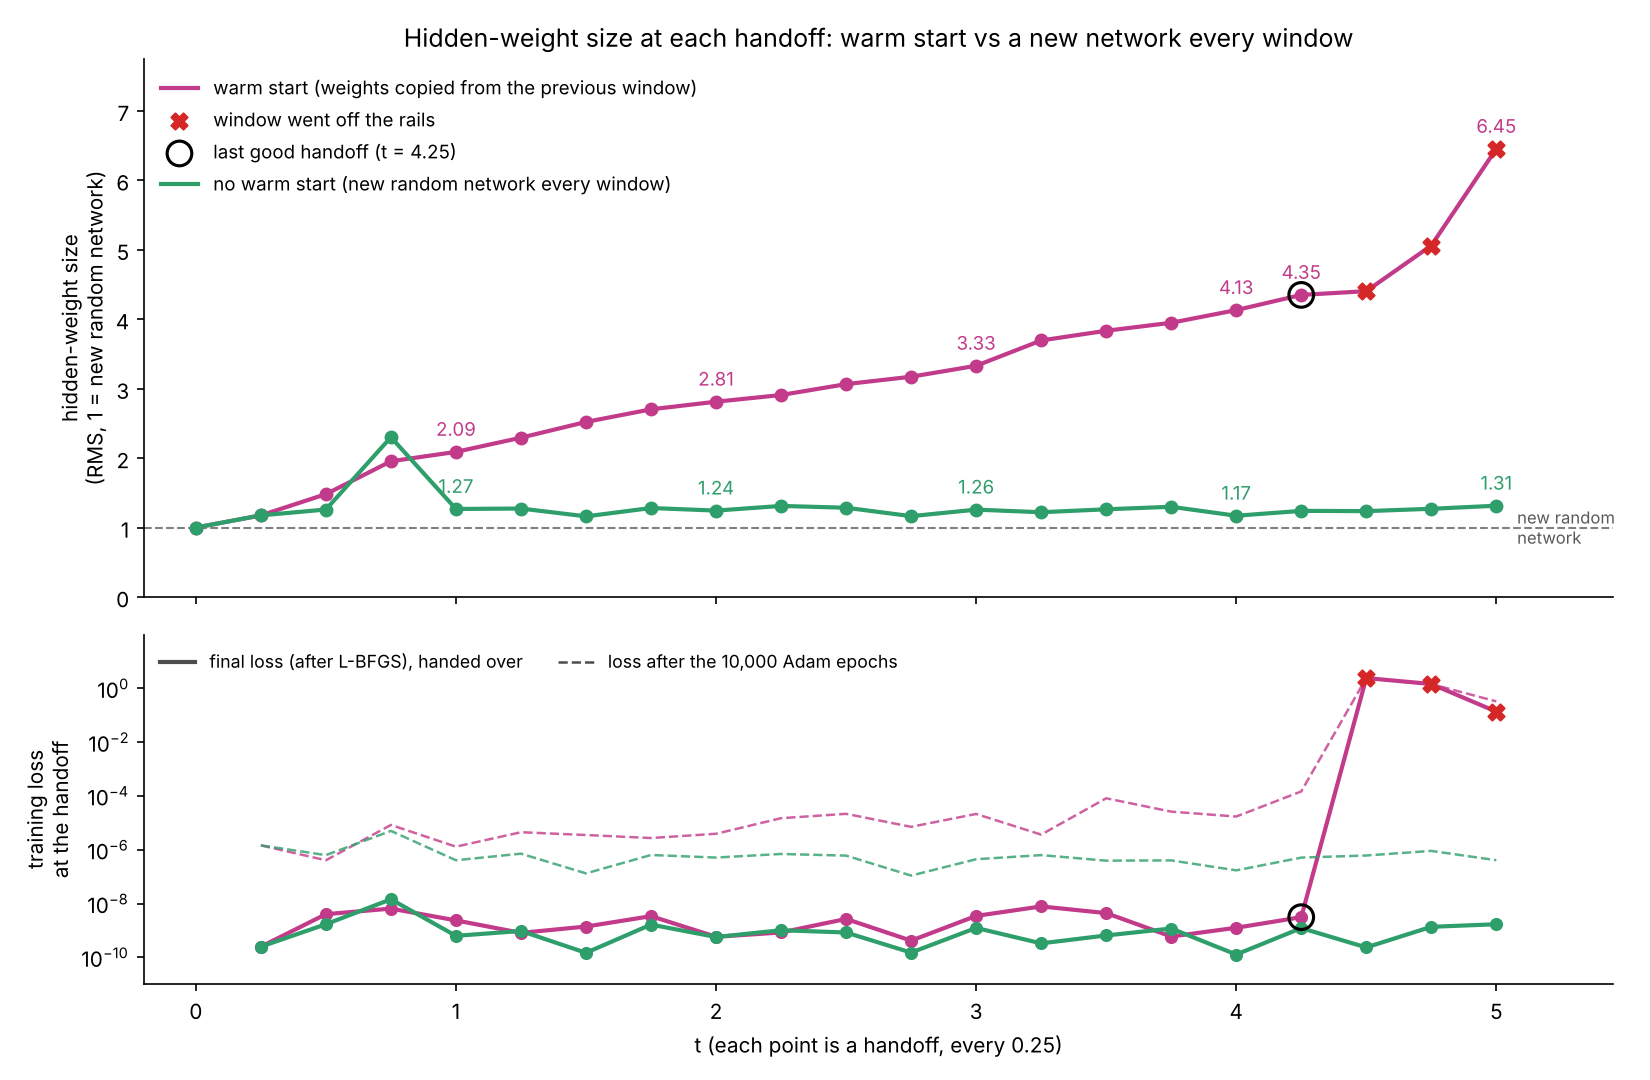
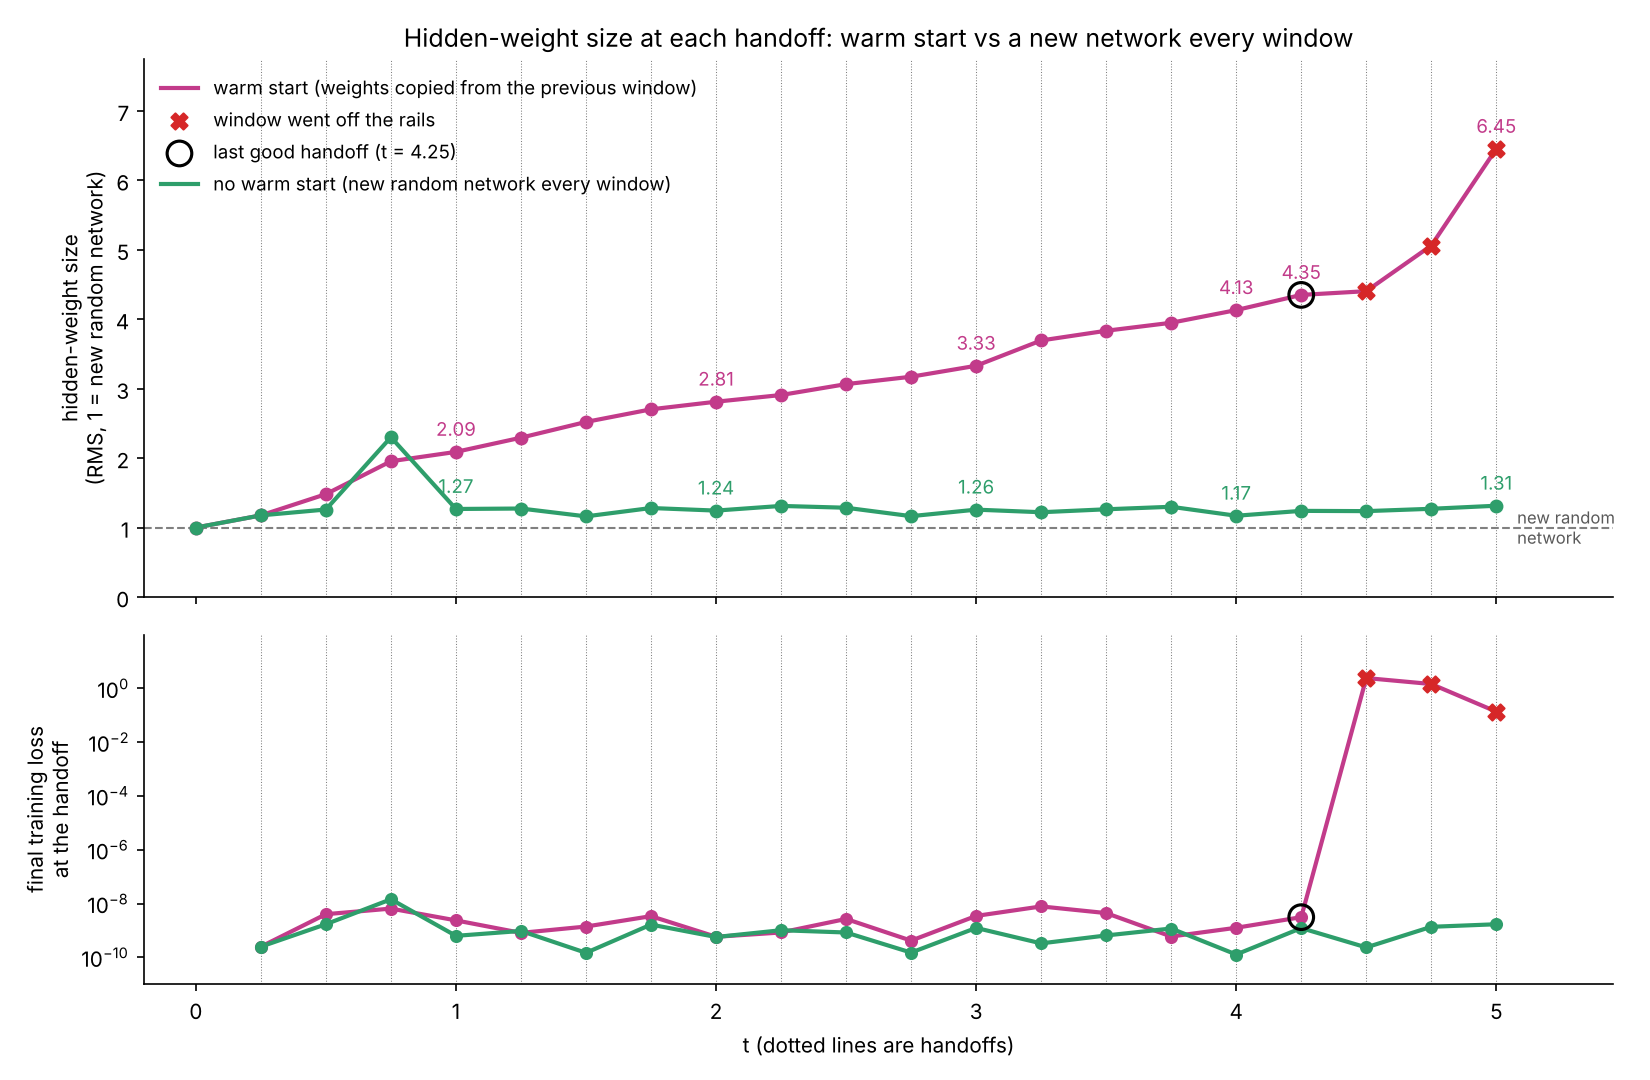
Drop the after-Adam loss lines and restore the handoff lines in the weight graphs
Claude-Session: https://claude.ai/code/session_01B1bBBmUZZ15VhvxewLLqji

diff --git a/scripts/handoff_weight_rms.py b/scripts/handoff_weight_rms.py
@@ -19,8 +19,8 @@ away from the reference (3D distance). Such windows are drawn in red, and the
 last point before the first one is the "last good handoff".
 
 Under each graph is the training loss of the window that ends at that handoff:
-its final loss (after L-BFGS, the network that is handed over) and, dashed, its
-loss after the Adam epochs. Both come from the runs' losses_XX.csv files.
+its final loss (after L-BFGS, the network that is handed over), from the runs'
+losses_XX.csv files.
 
 Example (the runs used for the graphs):
     python time_marching.py --T 5 --window 0.25 --save-dir runs/warm --save-predictions runs/pred_warm.csv
@@ -78,6 +78,8 @@ def draw(runs, base, title, path, ymax, fail_err):
                                   gridspec_kw=dict(height_ratios=[2, 1.3]))
     t_all = np.r_[0.0, runs[0][0]["handoff_t"].values]
     for a in (ax, axl):
+        for tv in t_all[1:]:
+            a.axvline(tv, color="0.5", lw=0.5, ls=":", zorder=0)
         a.spines[["top", "right"]].set_visible(False)
     ax.axhline(1.0, color="0.5", lw=1, ls="--")
     ax.text(t_all[-1] + 0.08, 1.0, "new random\nnetwork", va="center", fontsize=8, color="0.35")
@@ -91,11 +93,10 @@ def draw(runs, base, title, path, ymax, fail_err):
         show = [ti == int(ti) for ti in t]
         if len(runs) > 1:
             show[0] = False
-        th, lh, ah = df["handoff_t"].values, df["loss_handoff"].values, df["loss_after_adam"].values
+        th, lh = df["handoff_t"].values, df["loss_handoff"].values
         bad_h = bad[1:]
         axl.plot(th, lh, color=color, lw=2, zorder=2)
         axl.scatter(th[~bad_h], lh[~bad_h], color=color, s=28, zorder=3)
-        axl.plot(th, ah, color=color, lw=1.2, ls="--", alpha=0.8, zorder=2)
         if bad.any():
             first = int(np.argmax(bad))
             ax.scatter(t[bad], y[bad], color="#d62728", s=60, marker="X", zorder=4,
@@ -118,13 +119,10 @@ def draw(runs, base, title, path, ymax, fail_err):
     axl.set_yscale("log")
     axl.set_ylim(1e-11, 1e2)
     axl.set_yticks([1e-10, 1e-8, 1e-6, 1e-4, 1e-2, 1e0])
-    axl.set_ylabel("training loss\nat the handoff")
-    axl.plot([], [], color="0.3", lw=2, label="final loss (after L-BFGS), handed over")
-    axl.plot([], [], color="0.3", lw=1.2, ls="--", label="loss after the 10,000 Adam epochs")
-    axl.legend(loc="upper left", frameon=False, fontsize=8.5, ncol=2)
+    axl.set_ylabel("final training loss\nat the handoff")
     axl.set_xticks(np.arange(0, t_all[-1] + 0.01, 1.0))
     axl.set_xlim(-0.2, t_all[-1] + 0.45)
-    axl.set_xlabel("t (each point is a handoff, every 0.25)")
+    axl.set_xlabel("t (dotted lines are handoffs)")
     fig.tight_layout()
     fig.savefig(path)
     plt.close(fig)

diff --git a/results/handoff_weights/simple/README.md b/results/handoff_weights/simple/README.md
@@ -4,9 +4,9 @@ Same runs as `../handoff_errors.png`: T = 5, 20 windows of 0.25 time units (hand
 
 **The number.** At each handoff, take every weight and bias in the 4 hidden layers of 64 units (12,736 numbers; the output layer is left out) from the window's final network, and compute their RMS. Divide by the RMS of the random network the run started from (0.123). So 1.0 means "the same size as a newly made network" and 4.0 means "four times bigger". Both graphs use the same y-axis so they can be compared directly.
 
-**The loss panel.** Under each weight graph is the training loss of the window that ends at that handoff, on the same t axis (log scale). The solid line is the final loss after L-BFGS, which belongs to the network that gets handed over. The dashed line is the loss after the 10,000 Adam epochs, before L-BFGS. Both come from `../runs/*/losses_XX.csv`.
+**The loss panel.** Under each weight graph is the training loss of the window that ends at that handoff, on the same t axis (log scale). It is the final loss after L-BFGS, which belongs to the network that gets handed over, from `../runs/*/losses_XX.csv`.
 
-**What the loss shows.** The final loss gives no warning: both runs sit between 1e-10 and 1e-8 at every good handoff, warm included, right up to t = 4.25. Then warm jumps to 2.4 in one window. The loss after Adam does give a warning. Fresh stays near 1e-7 to 1e-6 the whole way. Warm creeps up from about 1e-6 to 1.5e-4 by t = 4.25, rising alongside the weight size. L-BFGS was hiding the problem until the window where it could no longer fix it.
+**What the loss shows.** The final loss gives no warning: both runs sit between 1e-10 and 1e-8 at every good handoff, warm included, right up to t = 4.25. Then warm jumps to 2.4 in one window. The weight size above it climbs steadily the whole time, so it is the better early warning.
 
 ## `weight_rms_both.png` (both on one graph)
 
